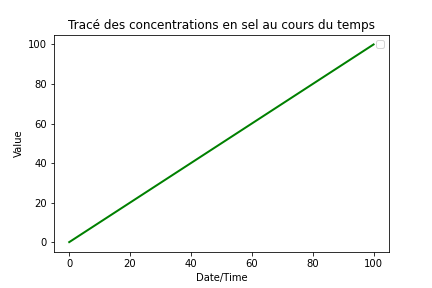
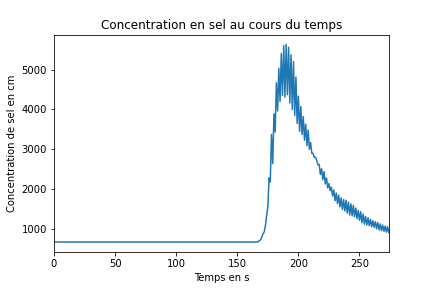
Importante modification du css

diff --git a/html/stylesheet.css b/html/stylesheet.css
@@ -5,13 +5,15 @@
                 
                 nav {
                   background-color: white;  
-                  width: 100%;
+                  width: 91%;
+                  margin-left: 4%;
+                  margin-right: 5%;
                   height: 75px;
                   position: fixed;
-                  top: 0px;
-                  left: 0px;
-                  right: 0px;
+                  margin-top: 10px;
                   z-index: 5;
+                  display: inline;
+                  border-radius: 10px;
                 }
                 
                 h1 {
@@ -19,34 +21,49 @@
                 }
                 
                 div.description {
-                  background-color: gray;
-                  height: 500px;
+                  background-image: url("img/wallpaper_description.jpeg");
+                  background-size: cover;
+                  background-repeat: no-repeat;
+                  height: 100%;
                   width: 100%;
                   position: absolute;
-                  top: 75px;
+                  top: 0px;
                   left: 0px;
                   right: 0px;
+                  text-align: center;
                 }
                 
+                div.description p {
+                  margin-top: 23%;  
+                  color: white;
+                  font-weight: bolder;
+                  font-size: 150%;
+                    
+                
+                }
+
                 div.tab {
-                  background-color: #a3a3a3;
-                  height: 1000px;
+                  background-color: #686868;
+                  height: 100%;
                   width: 100%;
                   position: absolute;
-                  top: 575px;
+                  top: 100%;
                   left: 0px;
                   right: 0px;
+                  align-items: center;
             
                 }
                 
                 div.graph {
-                  background-color: #7a7878;
+                  background-color: #E9E9E9;
                   height: 1000px;
                   width: 100%;
                   position: absolute;
-                  top: 1575px;
+                  top: 200%;
                   left: 0px;
                   right: 0px;
+                  text-align: center;
+                  justify-content: center;
                   
                 }
                 
@@ -61,23 +78,29 @@
                   top: 100px;
                   
                 }
-                div.logo {
-                 width: 100px;
-                 height: 75px;
+                
+                
+  
+                nav a:hover {
+                  background-color: red;
+                  color:white;
                 }
                 
-                img.logo {
-                  width: 100%;  
-                  height:100%;  
-                    
-                }
-                
-                img.graphique {
+                nav a img{
                   position: absolute;
-                  display: block;
-                  margin: auto;
+                  width: 100px;
+                  height: 70px; 
+                  top: 50%;
+                  left: 50%;
+                  transform: translate(-50%, -50%);
+                }
+      
+                div.graph img {
+                  position: absolute;
+                  top: 50%;
+                  left: 50%;
+                  transform: translate(-50%, -50%);
                   width: 700px;  
                   height: 500px;  
-                    
                 }
            

diff --git a/html/index.html b/html/index.html
@@ -6,12 +6,22 @@
                 </head>
                 <body>
                     <nav>
-                        <div class="logo"><a href="https://www.univ-poitiers.fr/"><img class="logo" src="img/universite-poitiers-logo.jpg" alt="logo"></a></div>
-                        <div class="table"></div>
-                        <div class="graphique"></div>
+                        <a href="https://www.univ-poitiers.fr/"><img src="img/universite-poitiers-logo.jpg" alt="logo"></a>
+                        <a href="">Graphique</a>
+                        <a href="">Graphique</a>
                     </nav>
+                    
                     <h1>Voici la page html qui va afficher un tableau et un graphique</h1>
-                    <div class="description" ></div>
+                    
+                    <div class="description" >
+                        <p>blabazbdsauhbduahdhzuiahdiuahduiahdaudhaidh
+                        blabazbdsauhbduahdhzuiahdiuahduiahdaudhaidh
+                        blabazbdsauhbduahdhzuiahdiuahduiahdaudhaidh
+                        blabazbdsauhbduahdhzuiahdiuahduiahdaudhaidh
+                        blabazbdsauhbduahdhzuiahdiuahduiahdaudhaidh
+                        blabazbdsauhbduahdhzuiahdiuahduiahdaudhaidh</p>
+                    </div>
+                    
                     <div class="tab">
                         <p></p>
                         <table>
@@ -34,7 +44,7 @@
                         </table> 
                     </div>
                     <div class="graph">
-                        <img class="graphique" src="img/graphique.png" alt="logo">
+                        <img src="img/graphique.png" alt="logo">
                     </div>
                     
                 

diff --git a/sae5/sae5_project.py b/sae5/sae5_project.py
@@ -1,39 +1,43 @@
 """import sae5_module.py"""
 import openpyxl
-import pandas as pd
-import matplotlib as mpl
 import matplotlib.pyplot as plt
-from numpy import linspace, array, sin, cos, pi
 
 #Lecture du fichier excel et enregistrement des données dans la variable etableau
+workbook = openpyxl.load_workbook("../data/conductivite_amont.xlsx", data_only = True)
+titres_onglets = workbook.sheetnames
+onglet1 = workbook[titres_onglets[0]]
+min_row_o1 = onglet1.min_row
+max_row_o1 = onglet1.max_row
+min_col_o1 = onglet1.min_column
+max_col_o1 = onglet1.max_column
+# openpyxl >= 2.6
+for col in onglet1.iter_cols(min_row = min_row_o1, max_row = max_row_o1, min_col = min_col_o1, max_col = max_col_o1, values_only=True):
+    if col[0]=='Value':
+        value_list=col
+    elif col[0]=='Date/Time':
+        date_list=col
 
-value = pd.read_excel("../data/conductivite_amont.xlsx",usecols=['Value'],names=['Value'])
-value = str(value)
-date = pd.read_excel("../data/conductivite_amont.xlsx",usecols=['Date/Time'])
-date = str(date)
-value_list = value.split()
-date_list = date.split()
-
+value_list=list(value_list)
+value_list.pop(0)
+date_list=list(date_list)
+date_list.pop(0)
 print(value_list)
-print(date_list)
+#ferme le fichier excel
+workbook.close()
 
-    
+date_s_list=[]
+for i in range(len(date_list)):
+    date_s_list.append(i)
+print(date_s_list)
 
 
-def graphique(date_list,value_list):
-    fig, axes = plt.subplots()  # Creation d'un figure avec un seul axe
-    axes.set_xlabel(date_list[0]) #label de l'axe des abscisses
-    axes.set_ylabel(value_list[0]) #label de l'axe des ordonnées
-    axes.set_title('Tracé des concentrations en sel au cours du temps') #titre du graphique
-    #gènère un tableau de 200 points uniformément répartis entre 0 et 2*pi
-    x = linspace(0,100,200)
-    y = linspace(0,100,200)
-    #dessine la fonction y = f(x) de couleur verte, epaisseur=2
-    axes.plot(x, y, color = "green", linewidth= 2, linestyle='-')
-    #positionne la légende
-    axes.legend(loc='best')
-    #enregistre une capture de la figure
-    fig.savefig("../html/img/graphique.png")
+fig = plt.plot(value_list)  # Creation d'un figure avec un seul axe
+plt.xlim(0,len(date_s_list)/2)
+plt.xlabel("Temps en s")
+plt.ylabel("Concentration de sel en cm")
+plt.title("Concentration en sel au cours du temps")
+plt.savefig("../html/img/graphique.png")
+plt.show()
 
 def genere_html(filename, titre_page, body_html):
     fichier = open(filename, 'w')
@@ -55,12 +59,22 @@ def main():
                 </head>
                 <body>
                     <nav>
-                        <div class="logo"><a href="https://www.univ-poitiers.fr/"><img class="logo" src="img/universite-poitiers-logo.jpg" alt="logo"></a></div>
-                        <div class="table"></div>
-                        <div class="graphique"></div>
+                        <a href="https://www.univ-poitiers.fr/"><img src="img/universite-poitiers-logo.jpg" alt="logo"></a>
+                        <a href="">Graphique</a>
+                        <a href="">Graphique</a>
                     </nav>
+                    
                     <h1>Voici la page html qui va afficher un tableau et un graphique</h1>
-                    <div class="description" ></div>
+                    
+                    <div class="description" >
+                        <p>blabazbdsauhbduahdhzuiahdiuahduiahdaudhaidh
+                        blabazbdsauhbduahdhzuiahdiuahduiahdaudhaidh
+                        blabazbdsauhbduahdhzuiahdiuahduiahdaudhaidh
+                        blabazbdsauhbduahdhzuiahdiuahduiahdaudhaidh
+                        blabazbdsauhbduahdhzuiahdiuahduiahdaudhaidh
+                        blabazbdsauhbduahdhzuiahdiuahduiahdaudhaidh</p>
+                    </div>
+                    
                     <div class="tab">
                         <p></p>
                         <table>
@@ -83,7 +97,7 @@ def main():
                         </table> 
                     </div>
                     <div class="graph">
-                        <img class="graphique" src="img/graphique.png" alt="logo">
+                        <img src="img/graphique.png" alt="logo">
                     </div>
                     
                 
@@ -101,13 +115,15 @@ def stylesheet():
                 
                 nav {
                   background-color: white;  
-                  width: 100%;
+                  width: 91%;
+                  margin-left: 4%;
+                  margin-right: 5%;
                   height: 75px;
                   position: fixed;
-                  top: 0px;
-                  left: 0px;
-                  right: 0px;
+                  margin-top: 10px;
                   z-index: 5;
+                  display: inline;
+                  border-radius: 10px;
                 }
                 
                 h1 {
@@ -115,34 +131,49 @@ def stylesheet():
                 }
                 
                 div.description {
-                  background-color: gray;
-                  height: 500px;
+                  background-image: url("img/wallpaper_description.jpeg");
+                  background-size: cover;
+                  background-repeat: no-repeat;
+                  height: 100%;
                   width: 100%;
                   position: absolute;
-                  top: 75px;
+                  top: 0px;
                   left: 0px;
                   right: 0px;
+                  text-align: center;
                 }
                 
+                div.description p {
+                  margin-top: 23%;  
+                  color: white;
+                  font-weight: bolder;
+                  font-size: 150%;
+                    
+                
+                }
+
                 div.tab {
-                  background-color: #a3a3a3;
-                  height: 1000px;
+                  background-color: #686868;
+                  height: 100%;
                   width: 100%;
                   position: absolute;
-                  top: 575px;
+                  top: 100%;
                   left: 0px;
                   right: 0px;
+                  align-items: center;
             
                 }
                 
                 div.graph {
-                  background-color: #7a7878;
+                  background-color: #E9E9E9;
                   height: 1000px;
                   width: 100%;
                   position: absolute;
-                  top: 1575px;
+                  top: 200%;
                   left: 0px;
                   right: 0px;
+                  text-align: center;
+                  justify-content: center;
                   
                 }
                 
@@ -157,24 +188,30 @@ def stylesheet():
                   top: 100px;
                   
                 }
-                div.logo {
-                 width: 100px;
-                 height: 75px;
+                
+                
+  
+                nav a:hover {
+                  background-color: red;
+                  color:white;
                 }
                 
-                img.logo {
-                  width: 100%;  
-                  height:100%;  
-                    
-                }
-                
-                img.graphique {
+                nav a img{
                   position: absolute;
-                  display: block;
-                  margin: auto;
+                  width: 100px;
+                  height: 70px; 
+                  top: 50%;
+                  left: 50%;
+                  transform: translate(-50%, -50%);
+                }
+      
+                div.graph img {
+                  position: absolute;
+                  top: 50%;
+                  left: 50%;
+                  transform: translate(-50%, -50%);
                   width: 700px;  
                   height: 500px;  
-                    
                 }
            """
     genere_css("../html/stylesheet.css", "mon titre", body_css)
@@ -188,7 +225,6 @@ if __name__ == "__main__":
     print("50%...")
     print("75%...")
     print("100%...")
-    graphique(date_list,value_list)
     main()
     stylesheet()
     
